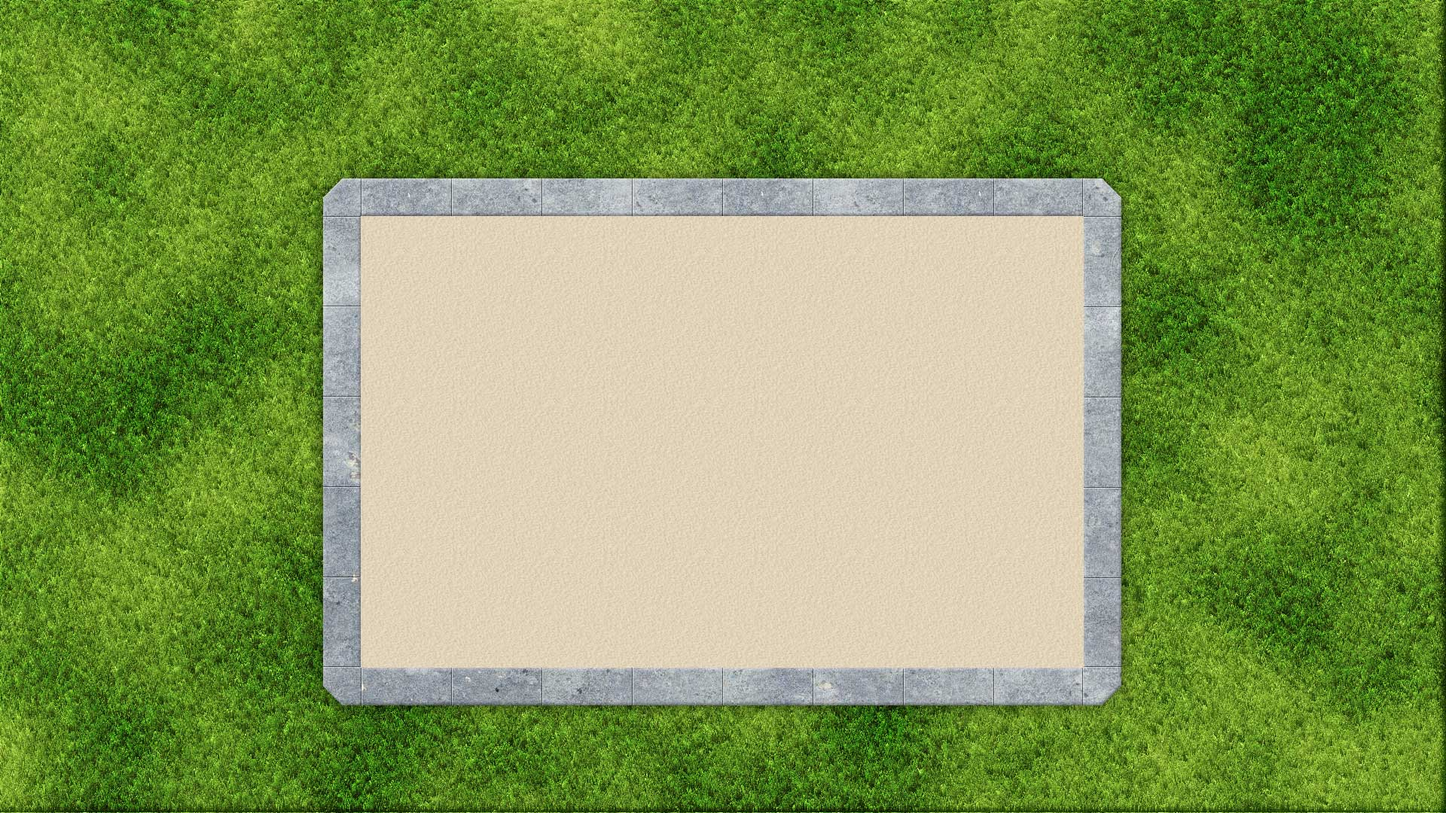
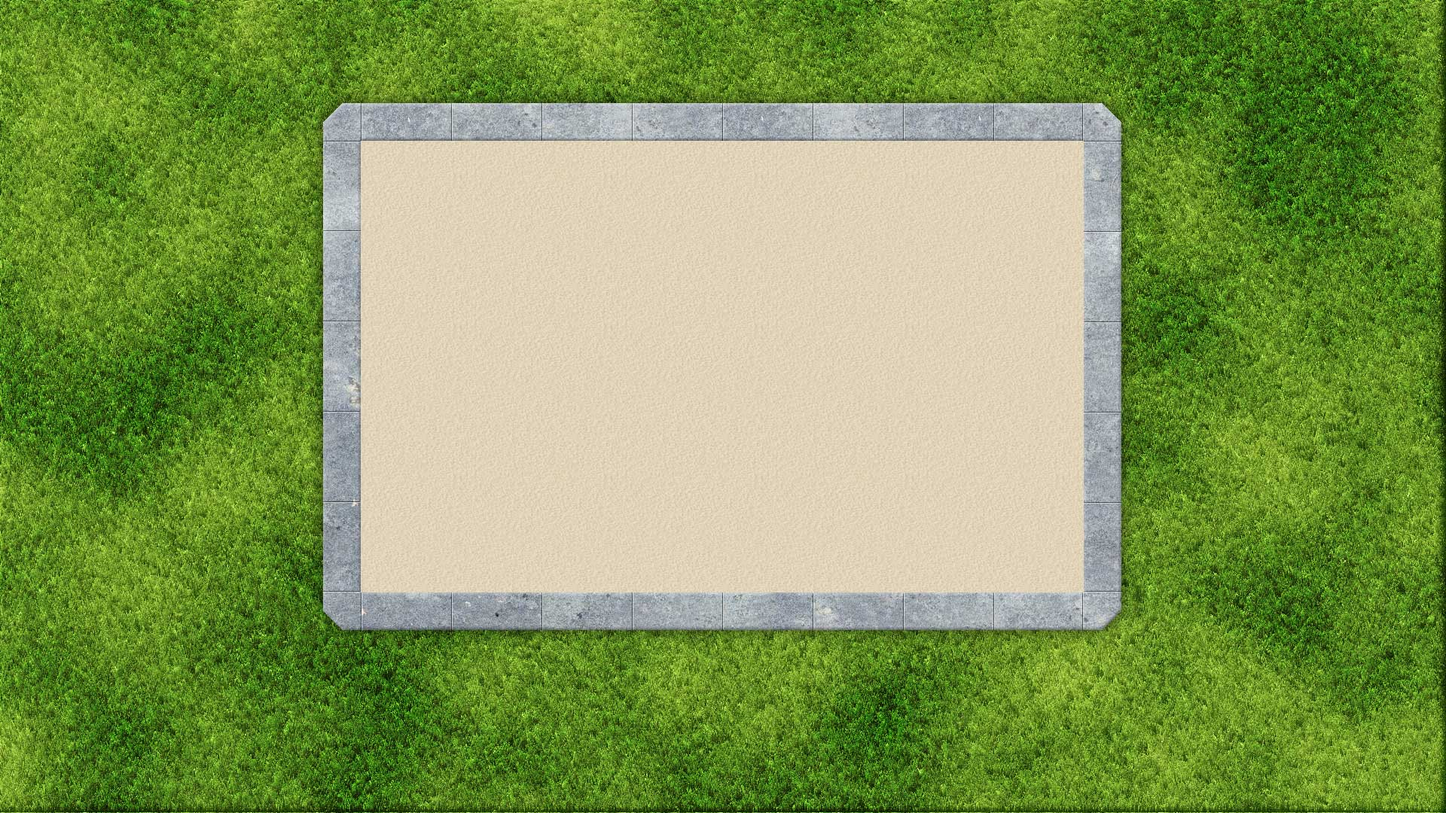
move background in jpg form

Changed region(s): [[0.2188, 0.1222, 0.7812, 0.8861]]

diff --git a/style.scss b/style.scss
@@ -9,7 +9,7 @@ $handle-size: 300px;
 
 body {
   background-image: url("background.jpg");
-  background-position: 50% -100px;
+  background-position: 50% 0px;
   margin: 0;
   font-family: "Poiret One";
 }
